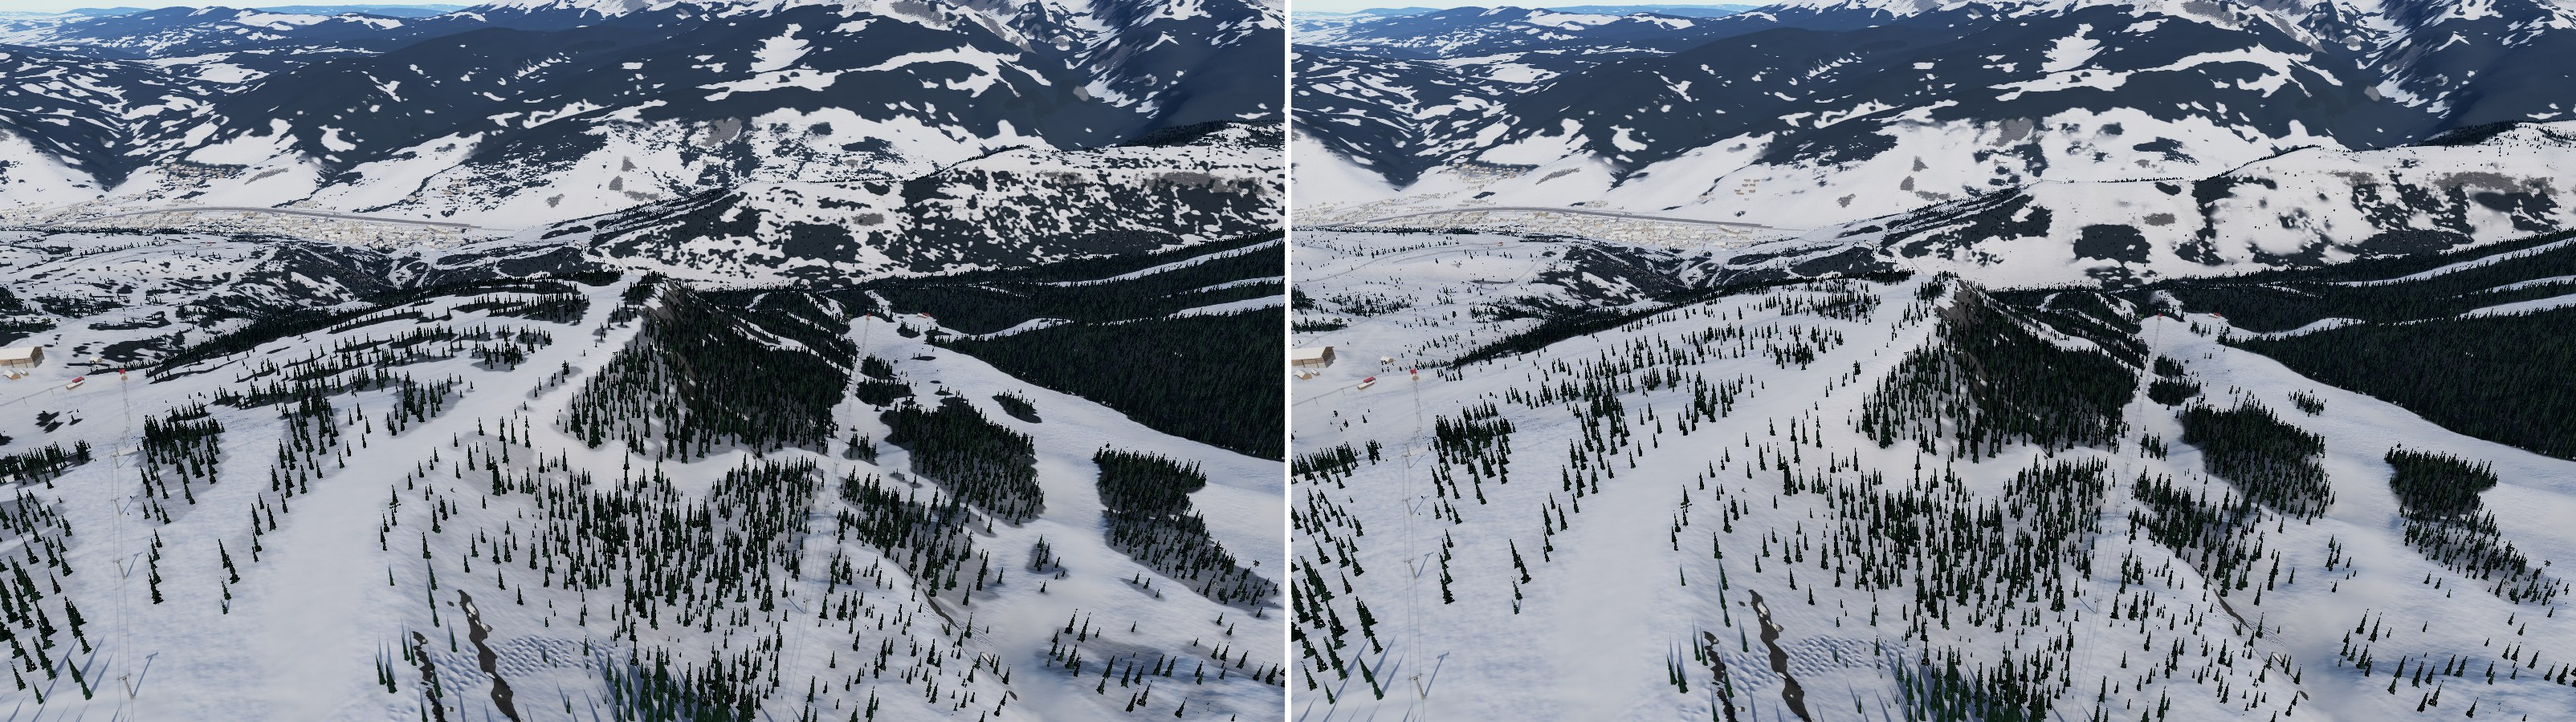
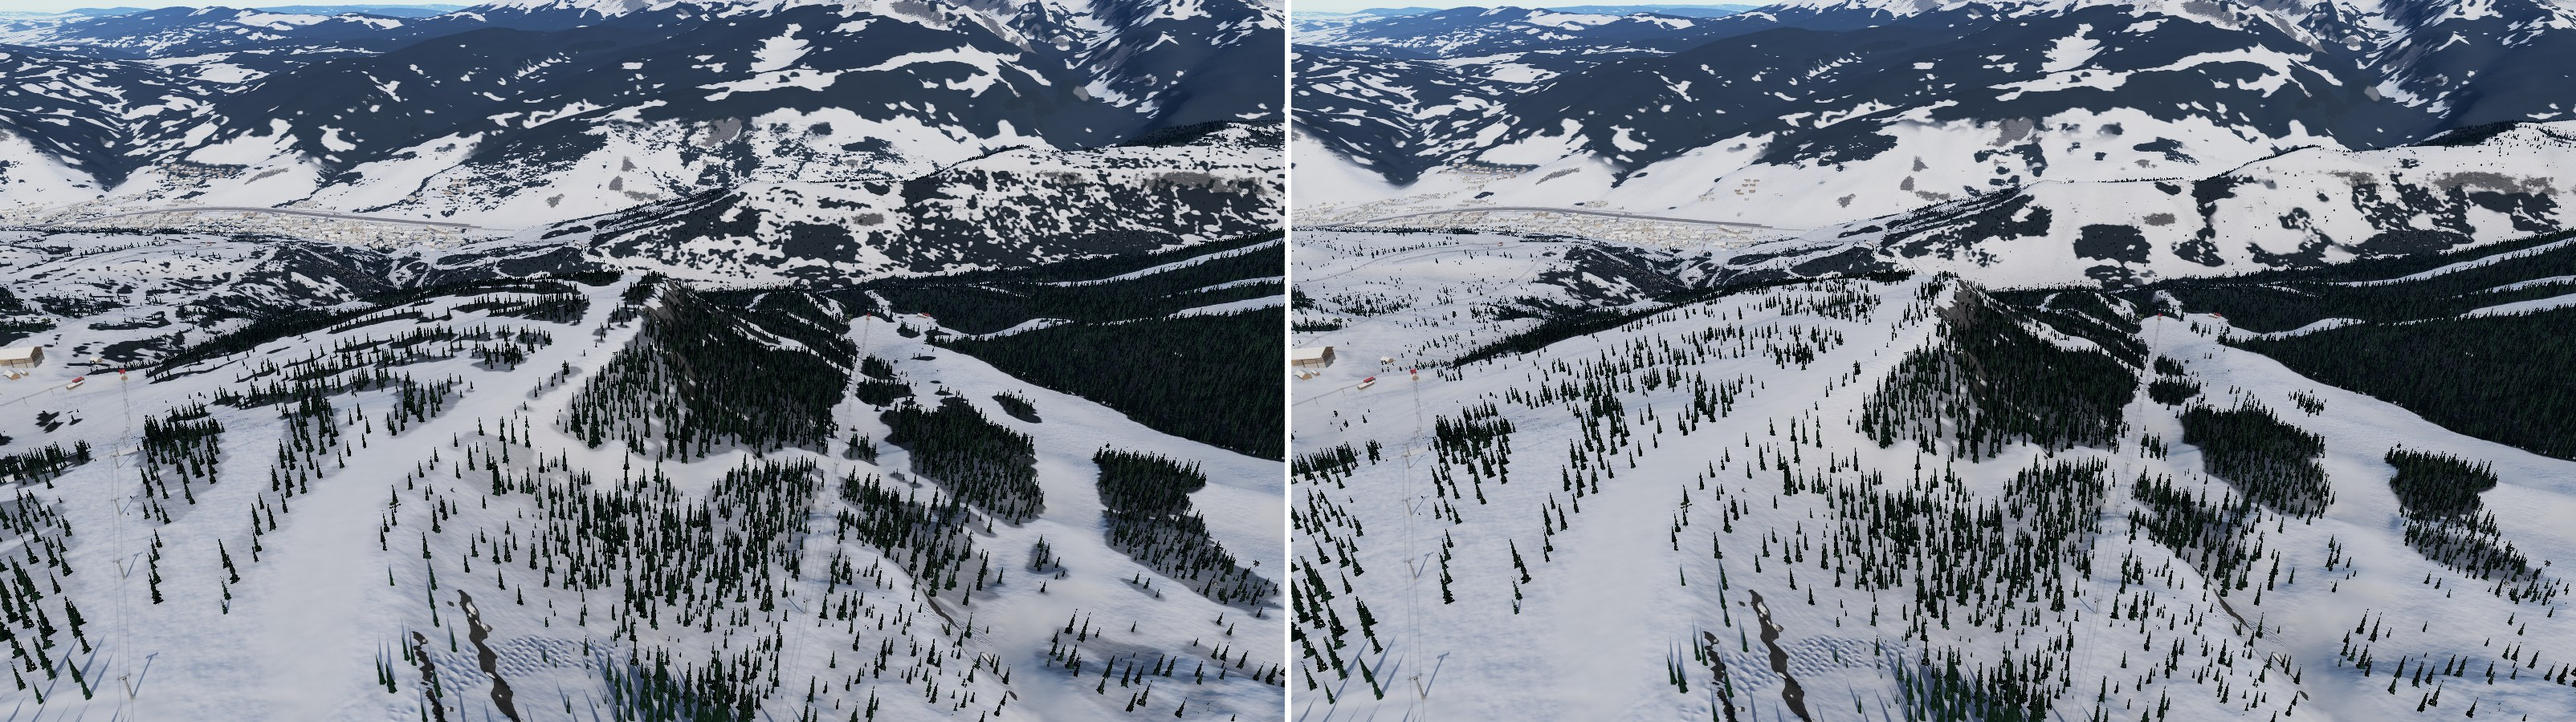
BUG-069: keep the cover only under closed stands of drawn trees (threshold, drop clumps under 40 m, fill holes)

diff --git a/pipeline/cover.py b/pipeline/cover.py
@@ -43,11 +43,14 @@ PACK_RUN_K = 0.6
 # far the far ring's data (cfg far_ring size_m)
 LC_LEVELS = (("mid", 16.0, 4), ("far", 100.0, 3))
 # BUG-069: the lifted lidar canopy reads a sparse stand (a tree every 10 m or so) as closed canopy, so far off
-# its snow went black between the few trees drawn there. The pack level's forest is weighted by the share of
-# the ground under the drawn crowns (averaged over CROWN_SIGMA m), full weight from CROWN_FULL up: dense
-# timber on Vail draws 0.2 to 0.4 and keeps its cover, sparse bowl stands draw 0.05 to 0.15 and go mostly white.
-CROWN_SIGMA = 16.0
-CROWN_FULL = 0.2
+# its snow went black between the few trees drawn there. The pack level's forest is kept only where the drawn
+# trees make a closed stand: the share of the ground under their crowns (averaged over CROWN_SIGMA m) passes
+# CROWN_LO..CROWN_HI (dense timber on Vail draws 0.2 to 0.4, sparse bowl stands 0.05 to 0.15), and the stand
+# is at least 2 x STAND_MIN_R m across (a grey opening), so a clump of a dozen trees on open snow is carried
+# by its trees alone instead of a dark patch around them.
+CROWN_SIGMA = 10.0
+CROWN_LO, CROWN_HI = 0.05, 0.14
+STAND_MIN_R = 20.0
 # natural crown radius / height per species id, as game/src/world/trees/species.ts SPECIES[].radius
 CROWN_RATIO = np.array([0.13, 0.17, 1.1, 0.1, 0.09, 0.17, 0.35, 0.05])
 HEIGHT_SIGMA = 3.0     # cells: canopy height is averaged over the forested cells around (it only lifts coarse chunks)
@@ -148,6 +151,18 @@ def crown_share(pack_dir, meta, w, h):
     return ndimage.gaussian_filter((area / PACK_RES ** 2).astype(np.float32), CROWN_SIGMA / PACK_RES)
 
 
+def closed_stand(crowns):
+    """BUG-069: 0..1 weight of the ground that is under a closed stand of drawn trees (see CROWN_LO above)"""
+    from scipy import ndimage
+    dense = smoothstep(CROWN_LO, CROWN_HI, crowns).astype(np.float32)
+    r = int(round(STAND_MIN_R / PACK_RES))
+    yy, xx = np.mgrid[-r:r + 1, -r:r + 1]
+    disc = (xx * xx + yy * yy) <= r * r
+    # drop the clumps, then fill the holes the same size inside the stands that stay
+    core = ndimage.grey_closing(ndimage.grey_opening(dense, footprint=disc), footprint=disc)
+    return ndimage.gaussian_filter(core, 1.0)
+
+
 def to_rgba(forest, height, rock, built):
     """pack the channels; G, B and A are quantised (2.5 m of canopy, 1/8 of rock, 1/4 of built-up), which
     the per-vertex lift and the rock threshold never resolve, so the PNGs compress about 3x better"""
@@ -179,8 +194,8 @@ def pack_level(pack_dir, meta, runs, log=print):
     crowns = crown_share(pack_dir, meta, w, h)
     if crowns.any():   # a pack without tree instances keeps its canopy (the ground then carries the forest)
         before = forest.sum()
-        forest *= np.clip(crowns / CROWN_FULL, 0, 1)
-        log(f"  drawn crowns keep {forest.sum() / max(before, 1) * 100:.1f}% of the forest (BUG-069)")
+        forest *= closed_stand(crowns)
+        log(f"  closed stands of drawn trees keep {forest.sum() / max(before, 1) * 100:.1f}% of the forest (BUG-069)")
     height = tree_heights(pack_dir, meta, 16.0, w, h)
     return write_level(pack_dir, "pack", to_rgba(forest, height, rock, np.zeros_like(forest)), PACK_RES, b["minX"], b["minY"])
 

diff --git a/docs/developer-guide.md b/docs/developer-guide.md
@@ -149,7 +149,7 @@ Flow: `resorts/<slug>.json` -> `gen_manifest.py` -> `manifests/<slug>.json` -> `
 - `packwriter.py` shared pack writer (Terrarium height tiles, masks) used by `build_pack.py` and `synth_pack.py`.
 - `terrain_ao.py` baked sky visibility (terrain ambient occlusion) from the DEM, used by the pack build.
 - `piste_dir.py` piste direction (DATA-002): the groomed runs' axis per 2 m cell as the `dir/` tile set, used by both pack builds; `python pipeline/piste_dir.py packs/<slug>` adds it to an existing pack from `features.json` and the mask tiles without a rebuild. The terrain (`Terrain.ts`) points it downhill and feeds it to the corduroy as the `fall` attribute, falling back to the smoothed fall line where a pack has no set.
-- `cover.py <slug> <raw_dir> <pack_dir>` (FEAT-153) forest cover levels for the terrain at a distance (`cover/*.png`, see `docs/pack-format.md`): the pack's own canopy at 4 m with its OSM runs burned in and weighted by the share of the ground under the drawn trees' crowns (BUG-069: sparse stands stay snow at a distance; rerun it on a pack built before that), and (DATA-019) the mid (16 m, 40 km) and far (100 m, 200 km) levels from ESA WorldCover and the ETH canopy height with the pistes of every resort in view burned in. Runs as the last step of `build_pack.py`, or standalone on a built pack in seconds.
+- `cover.py <slug> <raw_dir> <pack_dir>` (FEAT-153) forest cover levels for the terrain at a distance (`cover/*.png`, see `docs/pack-format.md`): the pack's own canopy at 4 m with its OSM runs burned in and kept only under closed stands of the drawn trees, at least 40 m across (BUG-069: sparse stands and small clumps stay snow with their trees at a distance; rerun it on a pack built before that), and (DATA-019) the mid (16 m, 40 km) and far (100 m, 200 km) levels from ESA WorldCover and the ETH canopy height with the pistes of every resort in view burned in. Runs as the last step of `build_pack.py`, or standalone on a built pack in seconds.
 - `species.py` (DATA-020) tree species ids 0 to 7 (spruce, aspen, krummholz, fir, lodgepole, Douglas-fir, limber pine, snag) from the LANDFIRE class, elevation, aspect, distance to OSM streams, exposed crests and grey dead crowns, and the shrub set (willow, juniper, sagebrush, young conifer, Gambel oak); `build_pack.py` stage 8 calls it, logs per-species counts per 200 m elevation band and writes `debug/species.png` into the pack. Without a LANDFIRE clip it falls back to elevation and aspect. The client draws every id with its own species from the tree kit (FEAT-156); shrubs are not drawn yet (FEAT-159).
 - `moguls.py` (FEAT-059) scores each run for mogul fields (grooming reports, difficulty, slope and aspect along the centre line, lift-top traffic; cat tracks, glades and greens never) and paints the amplitude raster the pack build writes as the `moguls` tile set. The build log lists the top-scoring runs. Tests: `cd pipeline && python -m pytest tests`.
 - `ept_select.py <dataset> <depth_in_ski_area> <depth_in_buffer> [out.txt]` picks the EPT lidar nodes over a resort for the manifest (boxes are hard-coded for Breckenridge).

diff --git a/docs/pack-format.md b/docs/pack-format.md
@@ -83,10 +83,11 @@ start); A = 255 minus built-up (inverted so a decoder that premultiplies alpha k
 level is 4 m over the pack bounds: the 2 m mask's canopy, contrast-lifted as the shader lifts the
 under-detected lidar canopy (0.08 to 0.45) and then box-averaged, with the pack's OSM runs burned in as
 cleared strips (areas filled, lines at 0.6 of their corridor width; gladed runs keep their trees), the
-mask's rock, and the mean tree height per 16 m from the tree instances. The forest is then weighted by the
-share of the ground under the crowns of the pack's tree instances (averaged over 16 m; full weight from 0.2
-up, BUG-069), so a sparse stand the lidar canopy reads as closed stays snow with its few trees instead of a
-dark patch. A pack without tree instances keeps the canopy as is.
+mask's rock, and the mean tree height per 16 m from the tree instances. The forest is then kept only
+under closed stands of the pack's tree instances (BUG-069): the share of the ground under their crowns,
+averaged over 10 m, passes 0.05 to 0.14, and the stand is at least 40 m across (clumps smaller than that are
+dropped, holes that size inside a stand filled). A sparse stand the lidar canopy reads as closed, or a clump
+of a dozen trees, stays snow with its trees instead of a dark patch. A pack without tree instances keeps the canopy as is.
 
 The `mid` (16 m over the mid height grid, 40 km) and `far` (100 m over the far ring's data, 200 km) levels
 come from the land cover (DATA-019): ESA WorldCover 2021 classes and the ETH 2020 canopy height, read on a
